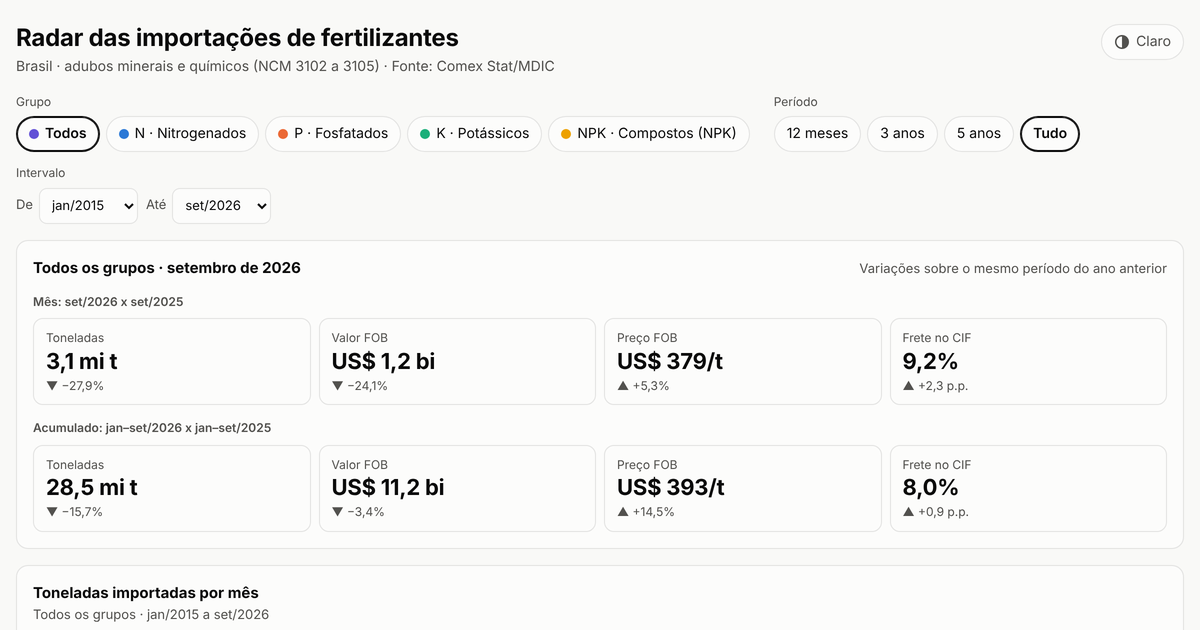
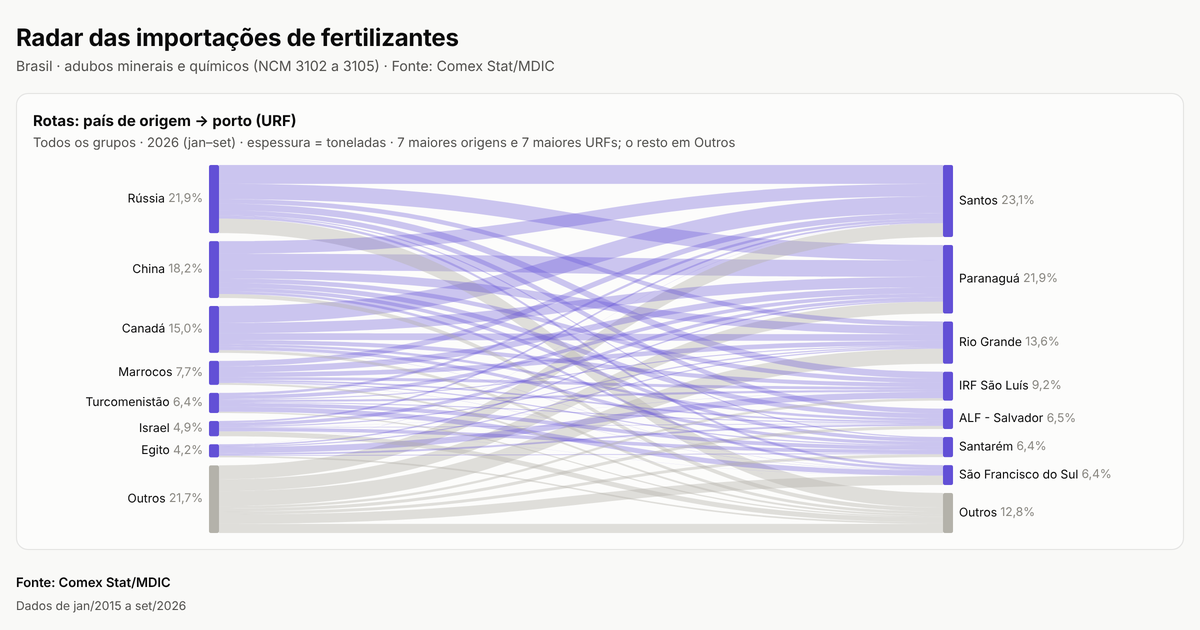
docs: README com rotas, relação de troca e fase 4; novo preview
- README: imagens das seções novas (rotas e relação de troca), perguntas
  que o projeto responde, aviso de atualização automática e roadmap com a
  fase 4 feita.
- preview.png (og:image, 1200x630) com o diagrama de rotas.
- Descrições da página (meta e og) citam rotas, frete e relação de troca.

Fonte: Comex Stat/MDIC.

diff --git a/dashboard/index.html b/dashboard/index.html
@@ -4,13 +4,13 @@
 <meta charset="utf-8">
 <meta name="viewport" content="width=device-width, initial-scale=1">
 <title>Radar das importações de fertilizantes</title>
-<meta name="description" content="Importações brasileiras de fertilizantes (N, P, K e NPK) desde 2015: volumes, origens, portos, preços e concentração de fornecedores. Fonte: Comex Stat/MDIC.">
+<meta name="description" content="Importações brasileiras de fertilizantes (N, P, K e NPK) desde 2015: volumes, origens, portos, rotas e frete, preços, relação de troca com a soja e concentração de fornecedores. Fonte: Comex Stat/MDIC.">
 <meta name="color-scheme" content="light dark">
 <!-- Preenchido pelo workflow de deploy com a data do último commit que alterou os dados. -->
 <meta name="atualizado" content="">
 <meta property="og:type" content="website">
 <meta property="og:title" content="Radar das importações de fertilizantes">
-<meta property="og:description" content="Volumes, origens, portos, preços e concentração das importações brasileiras de fertilizantes desde 2015. Fonte: Comex Stat/MDIC.">
+<meta property="og:description" content="Volumes, rotas origem → porto, frete, preços, relação de troca com a soja e concentração das importações brasileiras de fertilizantes desde 2015. Fonte: Comex Stat/MDIC.">
 <meta property="og:url" content="https://alicecullen-html.github.io/radar-fertilizantes-br/">
 <meta property="og:image" content="https://alicecullen-html.github.io/radar-fertilizantes-br/preview.png">
 <meta name="twitter:card" content="summary_large_image">

diff --git a/README.md b/README.md
@@ -8,7 +8,8 @@
 
 Radar das importações brasileiras de fertilizantes, feito apenas com dados públicos do
 [Comex Stat](https://comexstat.mdic.gov.br/), do Ministério do Desenvolvimento, Indústria,
-Comércio e Serviços (MDIC).
+Comércio e Serviços (MDIC). Os dados e o dashboard se atualizam sozinhos todo mês
+([fase 4](#atualização-automática-fase-4)).
 
 **Fonte: Comex Stat/MDIC.**
 
@@ -17,7 +18,8 @@ Comércio e Serviços (MDIC).
 O Brasil importa a maior parte dos fertilizantes que usa. Este projeto baixa, mês a mês,
 as importações de adubos minerais e químicos e organiza os dados para responder perguntas
 como: de onde vem o potássio? Por quais portos entra a ureia? Quanto se paga, em média,
-pela tonelada de MAP?
+pela tonelada de MAP? Quanto custa o frete de cada rota, do país de origem ao porto? E
+quantas toneladas de soja exportada pagam uma tonelada de adubo importado?
 
 Cada linha traz país de origem, NCM, UF, via de transporte e URF (unidade da Receita
 Federal onde a carga foi desembaraçada), com valor US$ FOB, peso líquido em kg, valor
@@ -218,6 +220,8 @@ Como os números são calculados:
 
 ### Rotas e frete por rota
 
+[![Diagrama de fluxo das importações de 2026 (jan-set), das maiores origens para as maiores URFs, e a tabela de frete por rota](dashboard/print-rotas.png)](https://alicecullen-html.github.io/radar-fertilizantes-br/)
+
 Uma rota é o par país de origem → URF de desembaraço, somado no ano (`rotas_ano.csv`). O
 frete US$/t da rota é o frete total ÷ toneladas, isto é, a média ponderada pelo peso.
 
@@ -236,6 +240,8 @@ frete US$/t da rota é o frete total ÷ toneladas, isto é, a média ponderada p
   (coluna `relevante`), estão no CSV.
 
 ### Relação de troca no porto
+
+[![Relação de troca no porto entre soja e KCl, ureia e MAP, de 2015 a 2026, com a média histórica de cada produto](dashboard/print-troca.png)](https://alicecullen-html.github.io/radar-fertilizantes-br/)
 
 Quantas toneladas de soja exportada pagam 1 t de fertilizante importado, mês a mês
 (`src/troca.py`):
@@ -316,7 +322,11 @@ apenas de variáveis de ambiente. Os nomes estão em [`.env.example`](.env.examp
 - [x] **Fase 2:** `src/transform.py` com preço US$/t, shares com variação anual, HHI,
   sazonalidade e o `dashboard.json`.
 - [x] **Fase 3:** [dashboard estático](https://alicecullen-html.github.io/radar-fertilizantes-br/) no GitHub Pages, lendo `data/processed/dashboard.json`.
-- [ ] **Fase 4:** GitHub Action mensal para atualizar os dados.
+- [x] Rotas origem → porto (diagrama de fluxo e frete por rota) e relação de troca soja x
+  fertilizante no porto.
+- [x] **Fase 4:** [atualização automática mensal](#atualização-automática-fase-4) da
+  importação de fertilizantes e da exportação de soja, com commit do github-actions[bot]
+  e novo deploy do dashboard.
 - [ ] **Fase 5:** boletim mensal com IA (opcional; a chave vem só de variável de ambiente).
 
 ## Fonte dos dados
